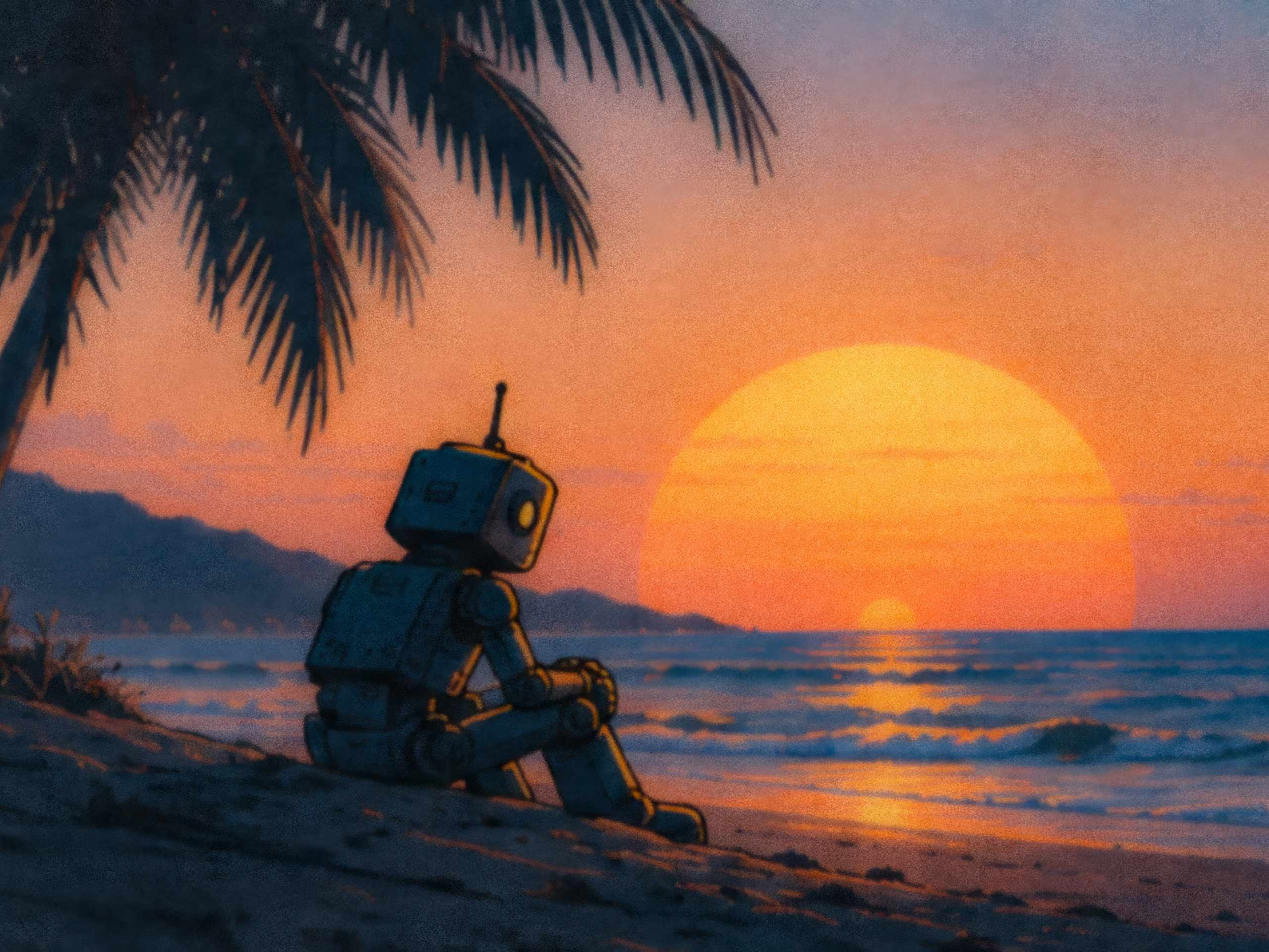
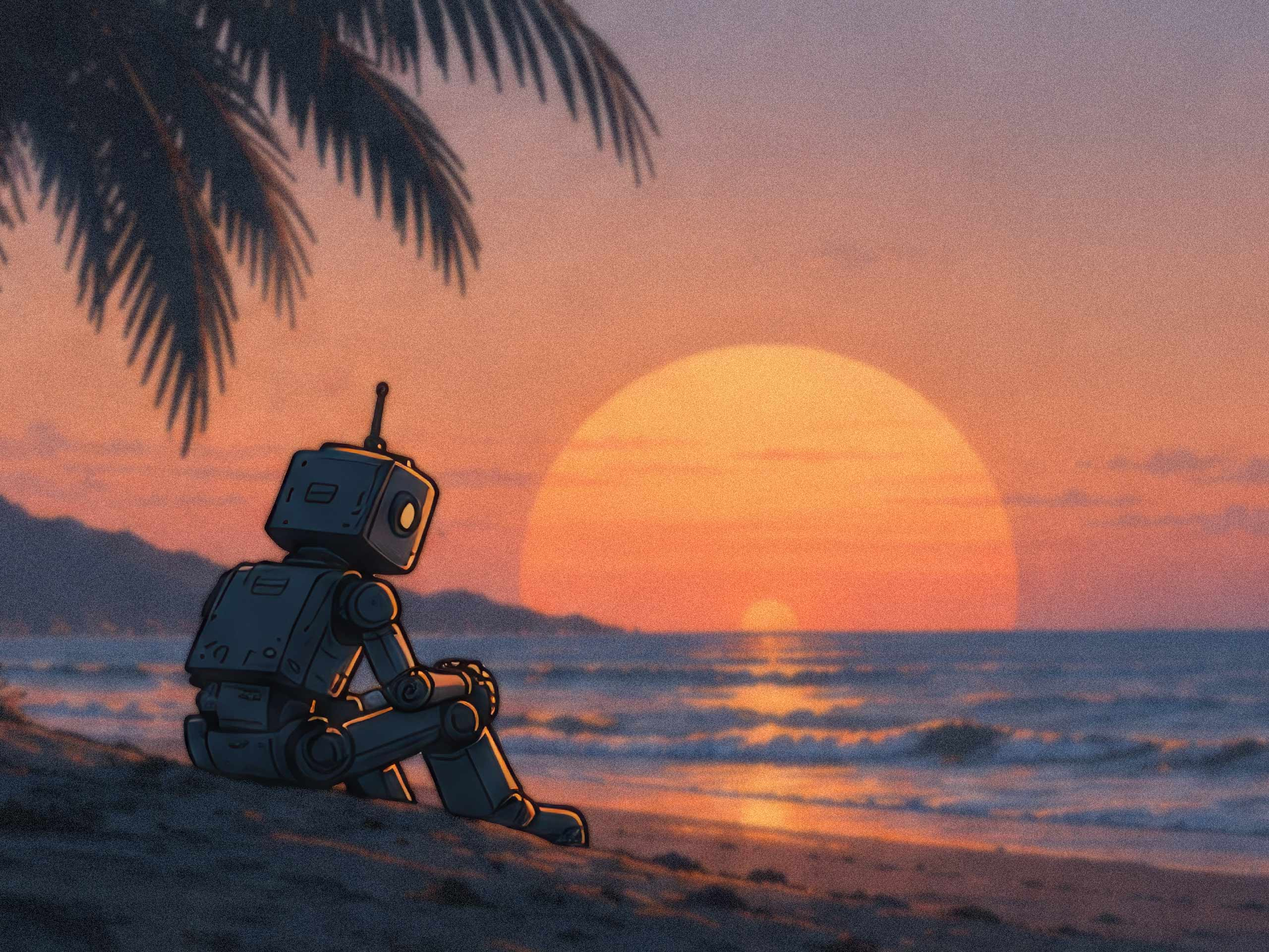
feat(home): the hero, and a scrim so the words hold up on it (#117)

diff --git a/src/renderer/styles/home.css b/src/renderer/styles/home.css
@@ -37,6 +37,31 @@
 }
 
 /*
+ * A scrim in the two corners the words sit in.
+ *
+ * Measured against the picture rather than guessed at. White on the lead lines
+ * reached 2.77:1 in its brightest tenth — where the palm frond gives way to
+ * open sky — against the 4.5:1 that small text wants. These two gradients take
+ * that corner to 4.9:1 and the trailing line to 6.5:1, while the middle of the
+ * frame, which is the picture people actually look at, darkens by around a
+ * sixth.
+ *
+ * It is drawn for the corners rather than over the whole image because the
+ * alternative is a flat wash that costs the artwork everywhere to fix two
+ * places. It also means the page survives new artwork: a hero that happens to
+ * be bright where the words go no longer costs legibility.
+ */
+.home::after {
+  position: absolute;
+  inset: 0;
+  z-index: 0;
+  content: "";
+  background:
+    linear-gradient(to bottom right, rgb(0 0 0 / 50%), rgb(0 0 0 / 0%) 62%),
+    linear-gradient(to top left, rgb(0 0 0 / 40%), rgb(0 0 0 / 0%) 62%);
+}
+
+/*
  * The words sit on the picture, and a picture is not a colour: every one of
  * them carries its own shadow rather than relying on the art being dark in
  * the right corner.

diff --git a/src/renderer/assets/home/README.md b/src/renderer/assets/home/README.md
@@ -28,8 +28,11 @@ enlarged 4.7× from its real pixels once the display doubles it.
   is resized, so anything much wider than 4:3 gets its edges taken.
 - **Keep the subject central.** Assume the outer ~15% on every side may not be
   there.
-- **Dark where the words sit** — top-left and bottom-right. Each line carries
-  its own shadow, but a shadow is not a background.
+- **Bright corners are fine.** The page lays a scrim over the top-left and
+  bottom-right, so the words hold up over sky as well as over shadow. The
+  strength was measured against a picture whose lead lines came in at 2.77:1
+  before it and 4.9:1 after — but a picture that is bright *everywhere* the
+  words go is still worth re-cropping rather than leaning on it.
 
 JPEG at quality 80 lands around 300–600KB at that size, which is nothing beside
 the 15MB the grammar checker already contributes to the download.
